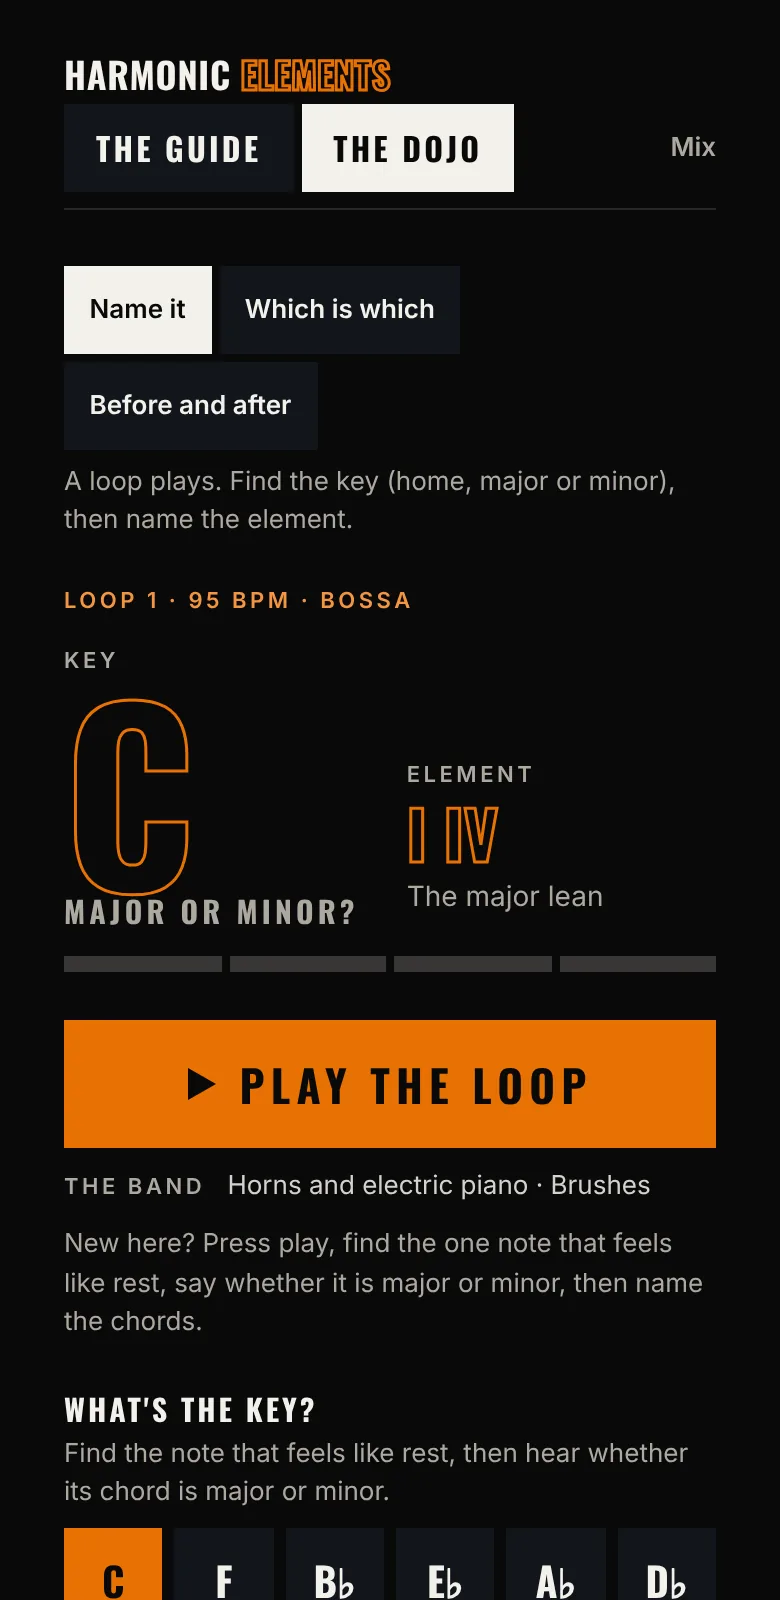
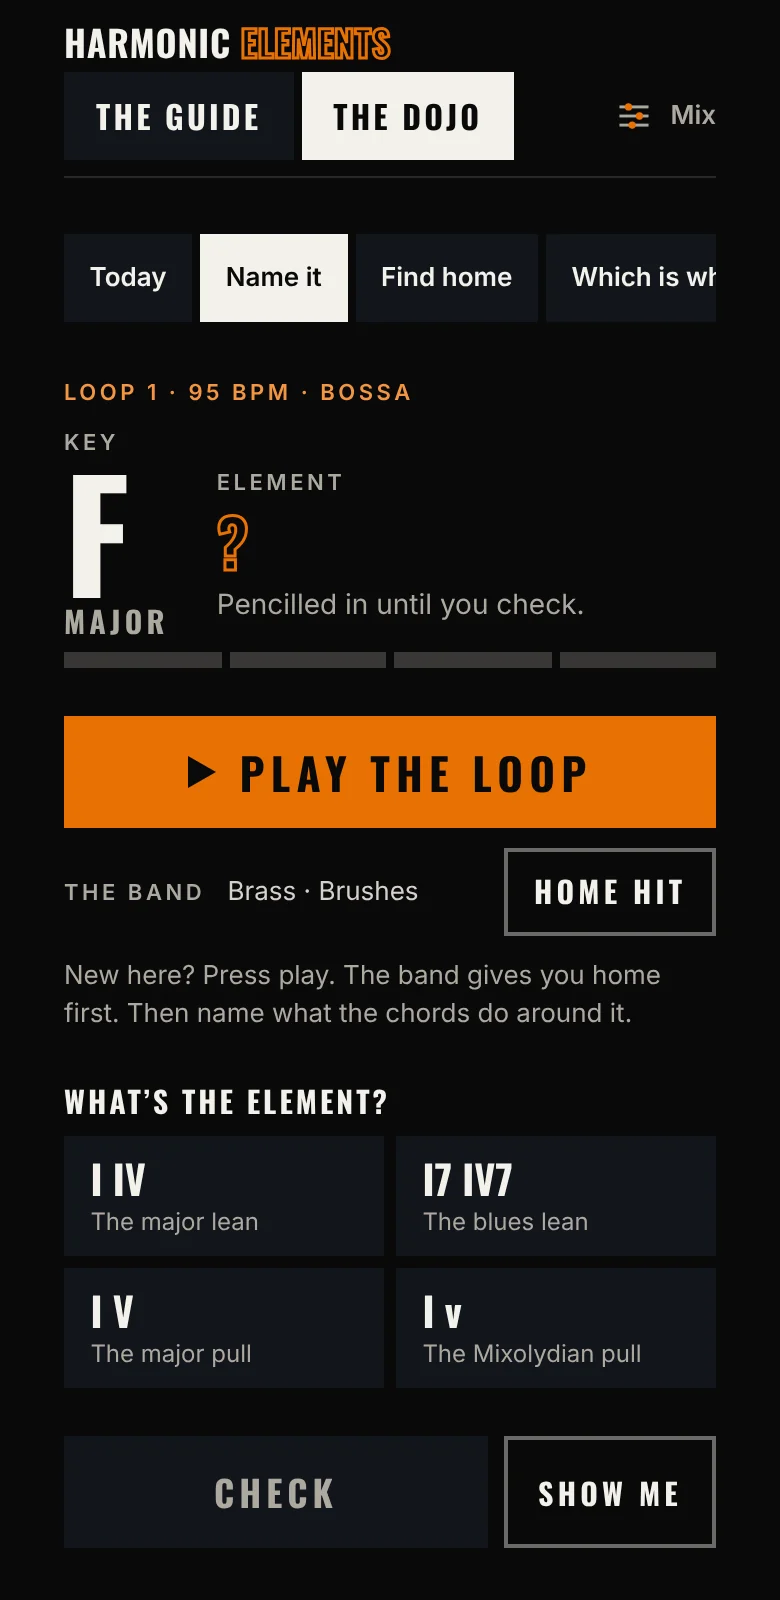
Release 1.13.0 with theme 3.20.0: versions, theme migration, new stills, final notes
Claude-Session: https://claude.ai/code/session_01WmPv1XbnuxjuHC7N2vTkSK

diff --git a/theme/leithbass-theme/style.css b/theme/leithbass-theme/style.css
@@ -3,7 +3,7 @@ Theme Name: Leith Bass Space
 Theme URI: https://leithbass.space
 Author: Jack Elliot
 Description: Custom theme for The Leith Bass Space — one-to-one bass lessons in Leith, Edinburgh. Photo-in-type headings, full-bleed parallax bands, light/dark modes, a private-by-default Notes system, and room for the Leith Bass Members plugin (the invite-only member portal and the Shed).
-Version: 3.20.0-alpha.2
+Version: 3.20.0
 Requires at least: 6.0
 Tested up to: 6.7
 Requires PHP: 7.4

diff --git a/theme/leithbass-theme/functions.php b/theme/leithbass-theme/functions.php
@@ -7,7 +7,7 @@
 
 if ( ! defined( 'ABSPATH' ) ) { exit; }
 
-define( 'LEITHBASS_VERSION', '3.20.0-alpha.2' );
+define( 'LEITHBASS_VERSION', '3.20.0' );
 
 /* -------------------------------------------------------------------------
  * Site-wide constants — edit these in one place.
@@ -1153,12 +1153,33 @@ function leithbass_migrate_ear_training_copy() {
 }
 
 /**
+ * 3.20.0 content migration: the Elements Dojo has Name it, Find home and Today, and the metronome has its
+ * guided ways of practising, a set list and links. Saved wording that still matches the 3.19.0 defaults is
+ * cleared, so the new defaults show; anything edited by hand stays as it is.
+ */
+function leithbass_migrate_dojo_and_metronome_copy() {
+	$retired = array(
+		'harmonic_soon_shot2_caption' => 'A loop plays until you&rsquo;ve found the key and named the element.',
+		'harmonic_soon_shot3_caption' => 'The changes, spelled out, and what to listen for next time.',
+		'harmonic_intro' => 'This course develops two connected skills: hearing familiar chord relationships and choosing notes that make those relationships audible on the bass.' . "\n\n" . 'It comes in two parts. The Guide is the course itself: pick an element, read what it is, play its loop in any key, and see its notes on the neck. The Dojo trains your ear on the same material: a loop of chords and drums plays, with no bass, until you&rsquo;ve found the key and named the element.',
+		'harmonic_points' => 'The Guide: the course, an element at a time. What the chords fix and leave open, what to listen for and where to hear it, with the loop to play along with.' . "\n" . 'Play: under every element in the Guide. The notes the chords fix and leave open, on a fretboard drawn for your bass, and bass lines written in stave and TAB, from roots alone up to sevenths. A reference bass can play the line, or take turns with you.' . "\n" . 'The key: home, the note and chord that feel like rest, and whether that chord is major or minor. Plenty of loops can be heard from more than one home, and every hearing the course allows counts.' . "\n" . 'The element: the chords as roman numerals from home, such as I IV or i &#9837;VII. The numerals count from home on the major scale, so &#9837;III is always a minor third above home.' . "\n" . 'The mix: choose which elements, notes for home, tempos and feels can come up in the Dojo, from a couple of vamps to the whole course and a further set of molecules. A home cue can play the home chord before each loop, as a first step.' . "\n" . 'Show me: stuck on one half? Show the key, or the element, and find the other yourself.' . "\n" . 'Which is which, and Before and after: two more things the Dojo can ask. Tell apart two elements that are easily mixed up, or hear the change when one is altered.' . "\n" . 'The band: every loop can be played by the house band. Pianos, electric pianos, organ, guitars, vibraphone, strings and brass, on their own or a few together, over seven drum kits with three grooves for every feel, so an element doesn&rsquo;t sound the same each time it comes round.' . "\n" . 'Your record: a dot for every loop you answer. Four first-time answers from the last five, on two different days, with nothing shown, and an element counts as recognised.',
+		'tool_metronome_points' => 'Random mute: choose what percentage of beats are skipped, and it leaves them out at random. Keep beat one sounding if you like, or have it mute whole bars.' . "\n" . 'Gradual mute: every beat sounds at first, then more and more of them drop out, over as many bars as you choose.' . "\n" . 'Click up: the tempo climbs by so many bpm every so many bars. You set both numbers, and where it stops.' . "\n" . 'Where the click falls: every beat, 2 and 4, beat one only, or pushed onto the &ldquo;and&rdquo;. Or bars of click followed by bars of silence.' . "\n" . 'A house drummer: play along with a drummer instead of a bare click, in a range of feels and kits. A muted beat mutes the drummer too.' . "\n" . 'Time and sound: simple, compound and odd time signatures, subdivisions and swing, with recorded woodblock, claves, cowbell, cross stick and hi hat.' . "\n" . 'Setups: save what you&rsquo;ve set under a name and bring it back with one tap. There&rsquo;s tap tempo and a count in too.',
+	);
+	foreach ( $retired as $key => $old ) {
+		$mod = get_theme_mod( 'leithbass_' . $key, null );
+		if ( null !== $mod && leithbass_migration_plain( $mod ) === leithbass_migration_plain( $old ) ) {
+			remove_theme_mod( 'leithbass_' . $key );
+		}
+	}
+}
+
+/**
  * Content migrations run in order on the first admin page load after new files
  * are in place. A fresh install has no saved wording, so they are no-ops there.
  */
 add_action( 'admin_init', function () {
 	$done = (string) get_option( 'leithbass_content_migration', '0' );
-	if ( version_compare( $done, '3.17.0', '>=' ) ) { return; }
+	if ( version_compare( $done, '3.20.0', '>=' ) ) { return; }
 
 	if ( version_compare( $done, '3.4.0', '<' ) ) { leithbass_migrate_intro_copy(); }
 	if ( version_compare( $done, '3.5.0', '<' ) ) { leithbass_migrate_single_space(); }
@@ -1170,8 +1191,9 @@ add_action( 'admin_init', function () {
 	if ( version_compare( $done, '3.15.0', '<' ) ) { leithbass_migrate_tools_pages_copy(); }
 	if ( version_compare( $done, '3.16.0', '<' ) ) { leithbass_migrate_harmonic_key_copy(); }
 	if ( version_compare( $done, '3.17.0', '<' ) ) { leithbass_migrate_ear_training_copy(); }
+	if ( version_compare( $done, '3.20.0', '<' ) ) { leithbass_migrate_dojo_and_metronome_copy(); }
 
-	update_option( 'leithbass_content_migration', '3.17.0' );
+	update_option( 'leithbass_content_migration', '3.20.0' );
 }, 5 );
 
 /**

diff --git a/theme/leithbass-theme/inc/content.php b/theme/leithbass-theme/inc/content.php
@@ -143,9 +143,9 @@ function leithbass_content_registry() {
 		'harmonic_soon_shot1_title'   => array( 'Harmonic Elements page', 'Coming Soon: picture 1 label', 'text', 'The Guide' ),
 		'harmonic_soon_shot1_caption' => array( 'Harmonic Elements page', 'Coming Soon: picture 1 caption', 'text', 'One element at a time, with its loop to play along with.' ),
 		'harmonic_soon_shot2_title'   => array( 'Harmonic Elements page', 'Coming Soon: picture 2 label', 'text', 'The Dojo' ),
-		'harmonic_soon_shot2_caption' => array( 'Harmonic Elements page', 'Coming Soon: picture 2 caption', 'text', 'A loop plays until you&rsquo;ve found the key and named the element.' ),
+		'harmonic_soon_shot2_caption' => array( 'Harmonic Elements page', 'Coming Soon: picture 2 caption', 'text', 'The band gives you home. You name what the chords do around it.' ),
 		'harmonic_soon_shot3_title'   => array( 'Harmonic Elements page', 'Coming Soon: picture 3 label', 'text', 'The answer' ),
-		'harmonic_soon_shot3_caption' => array( 'Harmonic Elements page', 'Coming Soon: picture 3 caption', 'text', 'The changes, spelled out, and what to listen for next time.' ),
+		'harmonic_soon_shot3_caption' => array( 'Harmonic Elements page', 'Coming Soon: picture 3 caption', 'text', 'The changes, what to listen for, and the same loop heard from each of its homes.' ),
 		'harmonic_intro'        => array( 'Harmonic Elements page', 'Opening text', 'textarea', 'This course develops two connected skills: hearing familiar chord relationships and choosing notes that make those relationships audible on the bass.' . "\n\n" . 'It comes in two parts. The Guide is the course itself: pick an element, read what it is, play its loop in any key, and see its notes on the neck. The Dojo trains your ear on the same material: a loop of chords and drums plays, and you name what the chords do around home, or find home for yourself.' ),
 		'harmonic_how_sub'      => array( 'Harmonic Elements page', 'How it works: subheading', 'text', 'How it works' ),
 		'harmonic_how_title'    => array( 'Harmonic Elements page', 'How it works: heading', 'text', 'Read it, play it, then test your ear' ),

diff --git a/plugin/leithbass-members/leithbass-members.php b/plugin/leithbass-members/leithbass-members.php
@@ -3,7 +3,7 @@
  * Plugin Name: Leith Bass Members
  * Plugin URI: https://leithbass.space/members/
  * Description: The invite-only member portal for The Leith Bass Space: session notes, bookings, lesson credit, the Shed (practice tools and a shared library), Ear Training for Bass Players, Harmonic Elements (the Guide and the Dojo), and a home-screen app with a room for each. Works with the Leith Bass Space theme.
- * Version: 1.13.0-alpha.10
+ * Version: 1.13.0
  * Requires at least: 6.0
  * Requires PHP: 7.4
  * Author: Jack Elliot
@@ -24,7 +24,7 @@ if ( function_exists( 'lbs_settings' ) ) {
 	return;
 }
 
-define( 'LBS_VERSION', '1.13.0-alpha.10' );
+define( 'LBS_VERSION', '1.13.0' );
 define( 'LBS_DIR', plugin_dir_path( __FILE__ ) );
 define( 'LBS_URL', plugin_dir_url( __FILE__ ) );
 define( 'LBS_FILE', __FILE__ );

diff --git a/docs/leith-bass-1.13.0-build-notes.md b/docs/leith-bass-1.13.0-build-notes.md
@@ -1,32 +1,101 @@
-# Leith Bass Members 1.13.0: build notes (in progress)
+# Leith Bass Members 1.13.0 and theme 3.20.0: build notes
 
-Started 11 Nov 2026. One release for the whole programme in `claude/leith-bass-space-review-2026-11-11.md`, as decided in `claude/programme-decisions-2026-11-11.md`. **Nothing here is installed or launched.** Built on plugin 1.12.1 and theme 3.19.0.
+Built 11 and 12 Nov 2026. One release for the programme in `claude/leith-bass-space-review-2026-11-11.md`, as decided in `claude/programme-decisions-2026-11-11.md`. Built on plugin 1.12.1 and theme 3.19.0.
 
-This note is updated as each part is built. The newest checkpoint zip is what to work from: ask Jack to attach it if the working files are gone.
+**Nothing is installed and nothing is launched.** The Launch tickboxes are Jack's.
 
-| Checkpoint | Date | What is in it |
-| :-- | :-- | :-- |
-| `leithbass-members-1.13.0-alpha.1.zip` | 11 Nov | Harmonic Elements (below). The theme is unchanged so far. |
-| `leithbass-members-1.13.0-alpha.2.zip` | 11 Nov | Adds the metronome's new ways of practising (below). The theme is still unchanged. |
-| `leithbass-members-1.13.0-alpha.4.zip` | 11 Nov | Adds the Guide's new order, Count it off, and the phone fixes in Ear Training and Read (below). |
-| Branch `release-1.13.0`, alpha.5 | 11 Nov | Adds Several passages, At tempo in chunks, Blind bars and Strong and weak beats (below). No zip. |
-| `leithbass-members-1.13.0-alpha.3.zip` | 11 Nov | Adds links: a metronome setup as a link, links into the Dojo, and Hear it from each home on the Guide's pages (below). |
+## The files
 
-## Programme status
-
-| Part | Status |
+| File | What |
 | :-- | :-- |
-| Harmonic Elements: home established, the two drills, cadences, the nineteen sorted, steps, Guide page, phone layout | **Built** (alpha.1), on the proposals in `claude/harmonic-elements-placeholders-and-names-proposal-2026-11-11.md` |
-| Harmonic Elements: still to do | Jack's audition answers written in as the list of accepted homes; his names and lines for the eleven drafts; "The axis, minor view" filed as minor; the band landing on home when a round is answered; Hear it from each home on the Guide's cards; Today and a Map; the Guide's own order (it still opens "About the course", "How this document is organised"); the Play panel on Read's engraver; the course text in the Project brought into line (see below); the member card in wp-admin showing Find home |
-| The metronome (Gebrian): Thin the click, 1 and 3, wider gaps, Click up a step at a time with a goal, the interleaved clicking up guide, flash defaults | **Built** (alpha.2) |
-| The metronome and the Shed: still to do | Interleaved clicking up #2 (several passages, growing jumps) and at-tempo chunking; a strong, weak, medium, weak accent shape; the count in with a displaced click (check what it does now); blind bars measured by tapping; count it off; set list; a setup shared by link; five in a row, shuffle my plan and lucky dip in the diary; the free page's copy with a credit to Gebrian's book and the walking suggestion; whether the interleaved guide's progress should be saved to a member's account (it is kept on the device now) |
-| Links (the start of the link scheme) | **Built** (alpha.3) for the metronome and the Elements Dojo. Still to do: links into Ear Training's drills and Read's drills (Read and Elements already have hash routes for pages), a drone link already exists, and "sets from Jack" as lists of links on a member's page |
-| One app: Today on Home, Today and Map in every room, one engraver, one latency setting | Not started |
-| Ear Training: cut off tabs, opens on Today, a short Guide | Not started |
-| Read: touch targets | Not started |
-| Worksheets skill 3.1 and style guide 2.0 | Not started |
-| Theme: copy for the changed Dojo, Coming Soon stills | Not started. Theme 3.19.0's Harmonic Elements copy still describes 1.9.0's Dojo |
-| GitHub repository | Waiting for Jack to connect GitHub |
+| `leithbass-members-1.13.0.zip` | The plugin |
+| `leithbass-theme-3.20.0.zip` | The theme |
+| `leith-bass-worksheets-3.1.zip` | The worksheets skill (separate from the site) |
+
+The source is the repository `JackOsc/leith-bass-space`, branch `release-1.13.0`. `main` is 1.12.1 with 3.19.0, as live. The sections below this one were written checkpoint by checkpoint (alpha.1 to alpha.10) and are kept as the record of what was built and why.
+
+## Installing
+
+1. Take a backup, as before any release.
+2. Install the plugin, then the theme.
+3. Open any wp-admin page once (the theme's content migration runs there).
+4. Work through "First checks on the site" below before telling anyone.
+
+Going back: reinstall 1.12.1 and 3.19.0. Nothing in the database is converted, so going back loses nothing. Record lines written by 1.13.0 carry an extra field (`ask`) that 1.12.1 ignores; its Find home lines would be counted by 1.12.1 as ordinary answers with the element wrong, so going back after pupils have used Find home would make their Elements record look worse than it is.
+
+## What is in the release
+
+| Part | State |
+| :-- | :-- |
+| Harmonic Elements: home established by the band, Name it and Find home, Home hit, Hear it from each home, cadences one home, the nineteen sorted (11 kept with full cards, 5 merged, 3 dropped), steps, "Whose home is it?", Today, the map, links, the Guide's order, phone layout, the admin card | Built |
+| The metronome: Thin the click, 1 and 3, wider gaps, Click up with a goal, three guided methods (interleaved clicking up, several passages, at tempo in chunks), Blind bars, Count it off, Strong and weak beats, set list, setups as links | Built |
+| The practice: five in a row, shuffle, lucky dip | Built |
+| One app: Today on Home, sets from Jack on a session, links into Elements, Ear Training and the metronome, one measured delay | Built |
+| Ear Training and Read on a phone | Built (stylesheets only) |
+| Theme: copy for the Elements and metronome pages, two new stills, content migration | Built |
+| Worksheets skill 3.1: real flat and sharp signs, link block with a QR code | Built |
+| One engraver for Elements and Ear Training | **Not in this release** (proposed for the next: see alpha.8) |
+| The course text document brought into line | **Not done.** The app's Guide is right (by patch script). The list of changes is `claude/harmonic-elements-course-text-changes-1.13.0.md` |
+| Style guide 2.0 as a document | **Not done.** The skill's extract carries amendments 1.2 |
+| Skill: chart page, rhythm line, element card, continuous figures | **Not done** |
+| The agent setup brief (Google Doc retired, the Project copy is the source) | **Not updated** |
+
+## Checked, for the release as a whole (12 Nov)
+
+- **Node suites, all passing**: Harmonic Elements 58,703 checks; the metronome 1,076; Ear Training 16,852. The skill's 52 acceptance tests.
+- **Every PHP file** in the plugin and theme passes `php -l`. **Every script** passes `node --check`.
+- **Twenty browser flows** rerun against the final build in headless Chromium at 390 by 844 (some also at 1280 by 900), from pages built out of the plugin's own PHP markup with WordPress stubbed. No page errors in any.
+- **The theme's migration**, run against stubs: saved wording equal to the 3.19.0 default is cleared; wording with a line added by hand is kept.
+- **The address rule for sets**, run in PHP with stubs.
+
+## Not checked
+
+- **WordPress.** Nothing has run on a real install: activation, the REST saves (the `ask` field, a session's sets), the dashboard's new config (`todays`, `sets`), wp-admin's session box and member card, the theme migration on real saved content.
+- **A real phone**, Safari, Firefox, the installed app, offline.
+- **Sound.** Nobody has heard the pedal, the bass, the home hit, the guided click, or anything else. Pitches and timings were measured.
+- **Read's Node suite** was not rerun. It tests Read's music, engraving and data files, which did not change. `read.js` gained two lines (keeping the measured delay) and `read.css` its phone rules.
+- **The metronome's own 1.8.0 suites** (1,328 engine and 217 screen checks) are not in the Project and were not rerun. The 1.13 suite covers the new behaviour and some of the old.
+- **Listening leads** on the eleven new cards, against the recordings.
+- **Printing** a worksheet and scanning its code with a phone.
+
+## First checks on the site (Jack, signed in as himself)
+
+On a laptop:
+1. wp-admin loads; Plugins shows 1.13.0, Appearance shows 3.20.0.
+2. The Harmonic Elements page and the metronome page read as the new copy (or your own, if you had edited them).
+3. Open a session's notes: the Sets box is there. Add `Test | /metronome/` and save. It shows on that member's Home under "From Jack".
+4. A member's page in wp-admin: the Elements record still draws.
+
+On your phone, in the app:
+1. **Silent switch on, then off.** Does the metronome sound either way? (It should, as before.)
+2. **Elements, Name it.** Press play. Do you hear two bars of home before the loop? Try Pedal and Bass under The mix. Press Home hit. Answer one right and one wrong. After the answer, press each home under "Hear it from each home": does the bass make the home move?
+3. **Elements, Find home**, on a two homes loop (the mix preset "Two homes").
+4. **Elements, Today**, a few rounds. Then Your record: the map, and Practise on a stage.
+5. **Metronome**: Thin the click (Next a few times); Interleaved clicking up (Play it: one bar's count, the chunk, one beat, stop); Blind bars (tap through a gap: is the verdict fair?); Count it off; save two setups and run them as a set list.
+6. **Loop gaps.** Leave any loop running for a minute. Any click or hiccup at the join?
+7. **Lock the phone and come back** with the metronome running, and again with a loop running.
+8. **A link.** Copy a link from the Dojo mix, send it to yourself, open it.
+9. **Practice**: start one with two things picked. Switch, Clean and Slip, Lucky dip.
+10. **Read**, Line up your taps, with Bluetooth headphones if you have them: then the metronome's More panel should offer the measured delay.
+11. **Aeroplane mode**, then open the app: what still works?
+
+Anything odd: the build notes below say which file each part lives in.
+
+## Decisions taken on Jack's behalf, in one list
+
+Each is explained in its checkpoint below. All are his to change.
+
+1. Find home, Home hit, Cue, Pedal, Bass, Loop only as the words. Name it marked strictly. A home must be a chord of the loop.
+2. The keep, merge and drop list for the nineteen. The eleven cards' wording and listening leads. "Whose home is it?" as drafted.
+3. The fifties progression and the fifties, strengthened have one home. 22 loops have more than one.
+4. Today's recipe in Elements (three to work on, two to keep, one new, twelve rounds, none alone of its kind).
+5. The map inside Your record. Today first in the row of modes.
+6. Metronome: a chunk is a number of beats; each interleaved step ends on the whole run at the goal; 25 ms across a gap is steady; 3% is "there" in Count it off; rounds 3 to 5 of Several passages go passage by passage; Blind bars is tapped, not heard.
+7. A set list is the saved setups in order. The lucky dip's patterns. Nothing from the three practice tools goes in the diary but the three in a row tick.
+8. Sets belong to a session. Only addresses on the site are kept.
+9. Two delay settings with one measurement behind them.
+10. Address forms: `?m=`, `#dojo/...`, `#drill/...`, `#today`.
+11. Skill: `m7b5` left as typed; links https only.
 
 ## Harmonic Elements in alpha.1
 

diff --git a/plugin/leithbass-members/README.md b/plugin/leithbass-members/README.md
@@ -4,7 +4,7 @@ The invite-only member portal for The Leith Bass Space, at **/members/**. Bassis
 
 Everything is stored in WordPress (users, a private Sessions post type and user meta), so it survives theme updates and theme changes. Worksheets and recordings stay in Nextcloud and are streamed through WordPress behind the login, so nothing needs a public share link.
 
-Version 1.12.1. Needs WordPress 6.0+, PHP 7.4+ with the sodium extension (standard since PHP 7.2), and the Leith Bass Space theme 3.6.1 or later for the matching look (3.15.0 for the LBS Ear Trainer's page and the free tool pages, 3.18.0 for Read's Launch tickbox, 3.19.0 for Read's public page).
+Version 1.13.0. Needs WordPress 6.0+, PHP 7.4+ with the sodium extension (standard since PHP 7.2), and the Leith Bass Space theme 3.6.1 or later for the matching look (3.15.0 for the LBS Ear Trainer's page and the free tool pages, 3.18.0 for Read's Launch tickbox, 3.19.0 for Read's public page, 3.20.0 for the copy and stills that match 1.13.0).
 
 ## Upgrading from theme 3.6.0
 
@@ -281,7 +281,14 @@ Bring the walking line at 70 bpm.
 
 ## Changelog
 
-### 1.13.0 (in progress: not for installing yet)
+### 1.13.0
+
+Goes with **theme 3.20.0**. Install the plugin first, then the theme. Nothing is launched by installing: Read and Ear Training keep their Launch tickboxes as they are.
+
+**Before installing, read "Checked" and "Not checked" in the build notes** (`docs/leith-bass-1.13.0-build-notes.md` in the repository, `claude/leith-bass-1.13.0-build-notes.md` in the Project). In short: every rule has a Node test and every screen was driven in a headless phone sized browser from the plugin's own markup, but **none of it has run on WordPress, on a real phone, or been heard**.
+
+Saved data: nothing is converted. Old Harmonic Elements record lines still count as before. New fields: `ask` on an Elements record line; `_lbs_sets` on a session. Metronome settings on a device are read by the new engine and gain their new parts with defaults.
+
 
 One release for the whole programme agreed on 11 Nov 2026 (`claude/leith-bass-space-review-2026-11-11.md`). Built so far: Harmonic Elements, and the metronome's new ways of practising.
 

diff --git a/theme/leithbass-theme/README.md b/theme/leithbass-theme/README.md
@@ -281,3 +281,14 @@ From 3.6.1 the member portal lives in its own plugin, **Leith Bass Members**, so
 - Adds the invite-only member portal: Overview, Session Notes, Practice Room, Bookings and Account.
 - Adds Members, Sessions and Portal settings to wp-admin, with a paste-in session notes template, Nextcloud file picker, session prep and weekly repeat bookings.
 - Adds "Members" to the site navigation (switch off in Portal settings).
+
+## Version 3.20.0
+
+Goes with **Leith Bass Members 1.13.0**. Install the plugin first, then the theme.
+
+- **The Harmonic Elements page** describes the Dojo as it now is: Name it (the band gives you home), Find home, Today, links, and the map in the record. "A further set of molecules" is gone.
+- **The metronome page**'s list covers Click up with a goal, Thin the click, the guided speed work (crediting Molly Gebrian's *Learn Faster, Perform Better*), Blind bars, Count it off, set lists and links, and suggests walking to the click.
+- **Two new Coming Soon stills** for Harmonic Elements (the Dojo and the answer), with new captions. The Guide's still is unchanged. A picture uploaded for either slot in Leith Bass Content still wins over the shipped one.
+- **Content migration 3.20.0**: saved wording for these five fields is cleared only where it still matches the 3.19.0 default, so the new defaults show; anything edited by hand stays. Fields: the Elements page's opening text and parts list, its second and third still captions, and the metronome's list.
+- No template, style or script changed.
+
